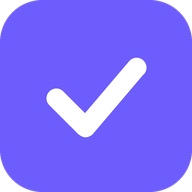
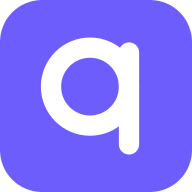
новый логотип: знак «q» + слово, обновлены иконки приложения
Claude-Session: https://claude.ai/code/session_01LKqLCCWrNtX5ExUd2dsN6w

Changed region(s): [[0.1875, 0.1875, 0.7812, 0.8125]]

diff --git a/public/app.js b/public/app.js
@@ -439,7 +439,7 @@
       h(
         'aside',
         { class: 'drawer', role: 'dialog', 'aria-label': 'Меню' },
-        h('div', { class: 'drawer-head' }, h('a', { class: 'logo', href: '#/', onclick: close }, 'tasq', h('b', null, 'ly')), h('button', { class: 'icon-btn', 'aria-label': 'Закрыть меню', onclick: close }, '✕')),
+        h('div', { class: 'drawer-head' }, logoEl({ onclick: close }), h('button', { class: 'icon-btn', 'aria-label': 'Закрыть меню', onclick: close }, '✕')),
         h('button', { class: 'drawer-item', onclick: go('#/') }, icon('home'), 'Главная'),
         h('button', { class: 'drawer-item', onclick: () => (close(), openInbox(document.querySelector('.mail-btn'))) }, icon('mail'), 'Входящие'),
         h('div', { class: 'drawer-title' }, 'Пространства'),
@@ -564,6 +564,16 @@
     if (menuEl) menuEl.classList.add('right');
   }
 
+    // логотип: знак «q» на акцентном фоне + слово
+  function logoEl(attrs) {
+    const mark = document.createElementNS('http://www.w3.org/2000/svg', 'svg');
+    mark.setAttribute('viewBox', '0 0 512 512');
+    mark.setAttribute('class', 'logo-mark');
+    mark.setAttribute('aria-hidden', 'true');
+    mark.innerHTML = '<rect width="512" height="512" rx="112" fill="currentColor"/><g fill="none" stroke="#fff" stroke-width="54" stroke-linecap="round"><circle cx="240" cy="231" r="104"/><path d="M344 140v245"/></g>';
+    return h('a', Object.assign({ class: 'logo', href: '#/', 'aria-label': 'tasqly' }, attrs), mark, h('span', null, 'tasq', h('b', null, 'ly')));
+  }
+
   function topbar(crumbs) {
     const mail = state.user ? h('button', { class: 'icon-btn mail-btn', title: 'Входящие', 'aria-label': 'Входящие', onclick: (e) => openInbox(e.currentTarget) }, icon('mail')) : null;
     if (mail) loadBadge(mail);
@@ -581,7 +591,7 @@
       'header',
       { class: 'topbar' },
       state.user ? h('button', { class: 'icon-btn', title: 'Меню', 'aria-label': 'Открыть меню', onclick: openDrawer }, icon('menu')) : null,
-      h('a', { class: 'logo', href: '#/' }, 'tasq', h('b', null, 'ly')),
+      logoEl(),
       h('nav', { class: 'crumbs' }, crumbs.map((c) => [h('span', null, '/'), c.href ? h('a', { href: c.href }, c.label) : h('span', { class: 'current' }, c.label)])),
       h('div', { class: 'timer-slot' }),
       aiBtn,
@@ -621,7 +631,7 @@
       const el = document.getElementById(id);
       if (el) el.scrollIntoView({ behavior: window.matchMedia('(prefers-reduced-motion: reduce)').matches ? 'auto' : 'smooth', block: 'start' });
     };
-    const logo = h('a', { class: 'logo', href: '#/' }, 'tasq', h('b', null, 'ly'));
+    const logo = logoEl();
 
     // демо-доска: одна карточка сама переезжает в «Готово»
     const demoCard = (title, extra = [], cls = '') => h('div', { class: `demo-card ${cls}` }, h('div', { class: 'demo-title' }, title), h('div', { class: 'demo-meta' }, extra));
@@ -740,7 +750,7 @@
       h(
         'div',
         { class: 'auth' },
-        h('a', { class: 'logo', href: '#/' }, 'tasq', h('b', null, 'ly')),
+        logoEl(),
         h('div', { class: 'tag' }, mode === 'register' ? 'Создай аккаунт и первое пространство' : 'Войди в свой кабинет'),
         h('div', { class: 'card' }, tabs, form),
         h('a', { class: 'auth-back', href: '#/' }, '← О сервисе'),

diff --git a/public/styles.css b/public/styles.css
@@ -104,6 +104,8 @@ a:hover { text-decoration: underline; }
 }
 
 .logo { font-weight: 700; font-size: 16px; letter-spacing: -0.02em; color: var(--text); }
+.logo { display: inline-flex; align-items: center; gap: 8px; }
+.logo-mark { width: 1.35em; height: 1.35em; color: var(--accent); flex: none; }
 .logo b { color: var(--accent); font-weight: 700; }
 .logo:hover { text-decoration: none; }
 
@@ -204,7 +206,7 @@ h2 { font-size: 13px; margin: 0 0 12px; font-weight: 600; color: var(--muted); l
 /* ---------- вход ---------- */
 
 .auth { max-width: 360px; margin: 12vh auto 0; padding: 0 20px; width: 100%; }
-.auth .logo { font-size: 28px; text-align: center; display: block; margin-bottom: 4px; }
+.auth .logo { font-size: 28px; display: flex; justify-content: center; margin-bottom: 4px; }
 .auth .tag { text-align: center; color: var(--muted); margin-bottom: 24px; }
 .seg { display: inline-flex; background: var(--hover); border-radius: 8px; padding: 2px; gap: 2px; }
 .seg button { border: 0; background: transparent; padding: 5px 12px; border-radius: 6px; color: var(--muted); font-weight: 550; }

diff --git a/public/sw.js b/public/sw.js
@@ -1,5 +1,5 @@
 // tasqly: сервис-воркер. оболочка кешируется, api всегда идёт в сеть
-const CACHE = 'tasqly-v2';
+const CACHE = "tasqly-v3";
 const SHELL = ['./', './index.html', './styles.css', './app.js', './config.js', './manifest.webmanifest', './icon.svg'];
 
 self.addEventListener('install', (event) => {
